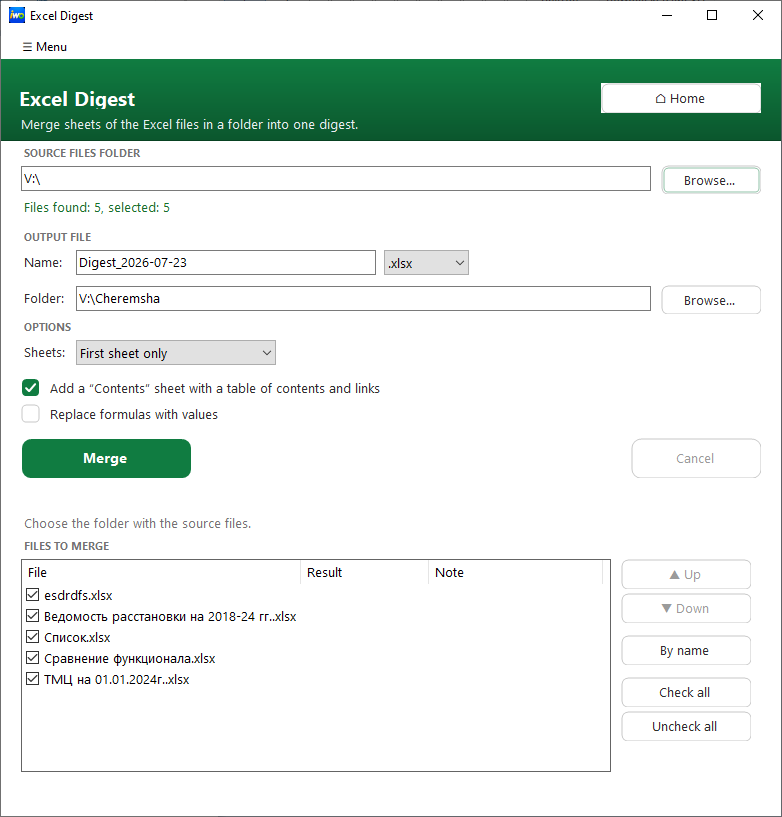
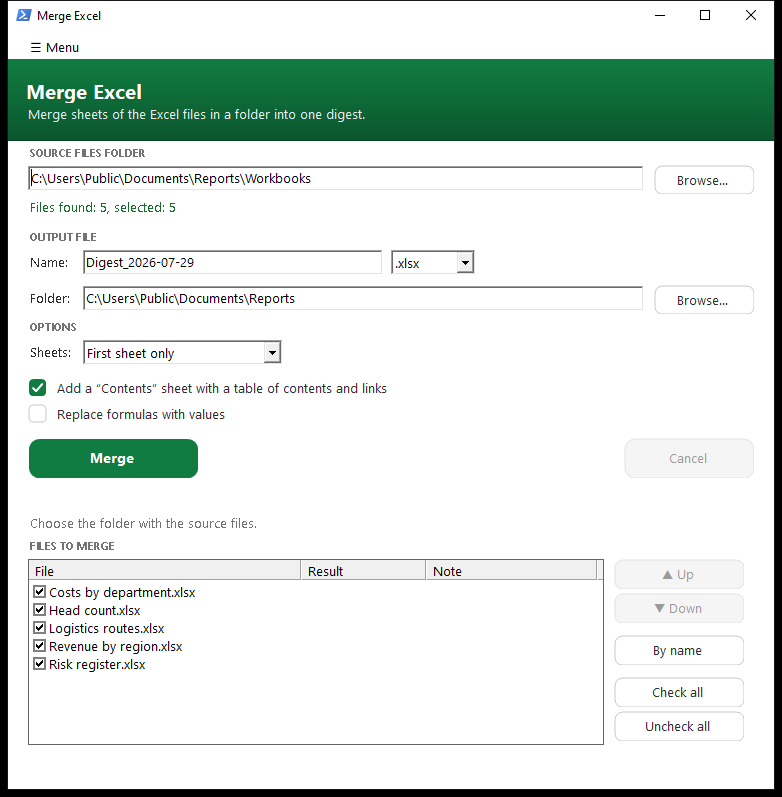
Rebuild the screenshots from samples the program makes itself
The pictures on the front page were a mixture: the start screen was three versions old and
showed a layout that no longer exists, the section with the tools was missing entirely,
and the rest carried document names and a folder path from the machine they happened to be
taken on. A screenshot is read before a single line of the README, and a name in a
different alphabet in it says the tool is not meant for the reader.

They are generated now, by a script that builds its own samples first: a quarterly report
of eleven pages, an appendix, a six-slide deck and five workbooks, all written from
scratch on each run, all in English, under a neutral folder rather than a scratch path
with this machine's drive letters in it. Settings are redirected to a throw-away folder,
because the real ones carry the last used paths and the conversion history.

Seven pictures instead of six: the start screen and the PDF section are two different
screens and the gallery showed only one of them.

diff --git a/README.md b/README.md
@@ -79,9 +79,10 @@ Six actions over one document, each writing a **new** file — the source is nev
 
 |  |  |
 |:--:|:--:|
-| <img src="docs/screenshots/hub.png" width="400" alt="Start screen"><br>**Start screen** — pick a section, then a tool | <img src="docs/screenshots/excel.png" width="400" alt="Merge Excel"><br>**Merge Excel** |
+| <img src="docs/screenshots/hub-main.png" width="400" alt="Start screen"><br>**Start screen** — pick a section | <img src="docs/screenshots/hub.png" width="400" alt="PDF tools"><br>**PDF tools** — six tools in the section |
 | <img src="docs/screenshots/pdf-merge.png" width="400" alt="PDF Merge"><br>**PDF Merge** — thumbnails & compression | <img src="docs/screenshots/pdf-split.png" width="400" alt="PDF Split"><br>**PDF Split** — modes & compression |
 | <img src="docs/screenshots/pdf-word.png" width="400" alt="PDF to Word"><br>**PDF → Word** — text & tables into an editable `.docx` | <img src="docs/screenshots/pdf-pptx.png" width="400" alt="PDF to PowerPoint"><br>**PDF → PowerPoint** — pages into slides with editable text |
+| <img src="docs/screenshots/excel.png" width="400" alt="Merge Excel"><br>**Merge Excel** — sheets of a folder into one digest | |
 
 ## ⬇ Download
 
